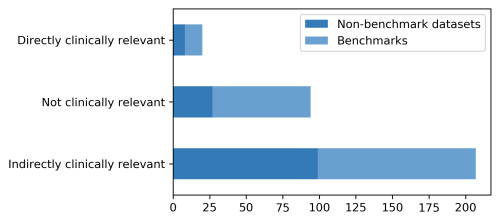
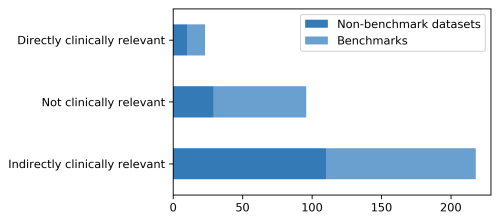
Updates plots and Jupyter notebook

diff --git a/notebooks/clinical_benchmarks/README.md b/notebooks/clinical_benchmarks/README.md
@@ -83,7 +83,7 @@ We further organised the list of clinical tasks into the categories (1) clinical
 
 ### Directly clinically relevant benchmarks
 *State: 19.05.2021*  
-*Based on Version 0.1.1 of the dataset.*
+*Based on Version 0.1.2 of the dataset.*
 
 **Table 2**: Benchmarks identified as directly clinically relevant and their properties.
 
@@ -126,6 +126,8 @@ calculating the sum of scores of the relevance and representativeness ratings.
 | 1       | FindZebra: A search engine for rare diseases | 10     |
 | 2       | ImageCLEFmedical 2018 Visual Question Answering (VQA) | 8      |
 | 2       | ImageCLEFmedical 2019 Visual Question Answering (VQA) | 8      |
+| 2       | ImageCLEFmedical 2020 Visual Question Answering (VQA) | 8      |
+| 2       | ImageCLEFmedical 2021 Visual Question Answering (VQA) | 8      |
 | 3       | VQA-RAD                                      | 7      |
 | 4       | PathVQA                                      | 6      |
 | 5       | TREC CDS task 2016                           | 5      |
